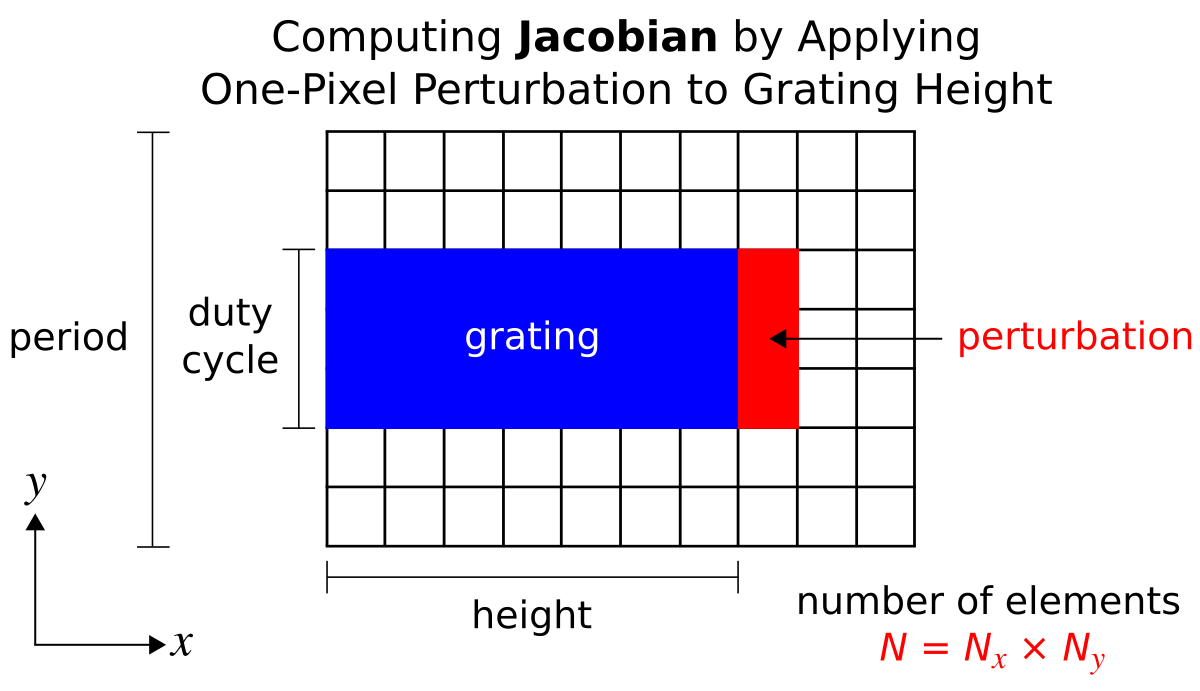
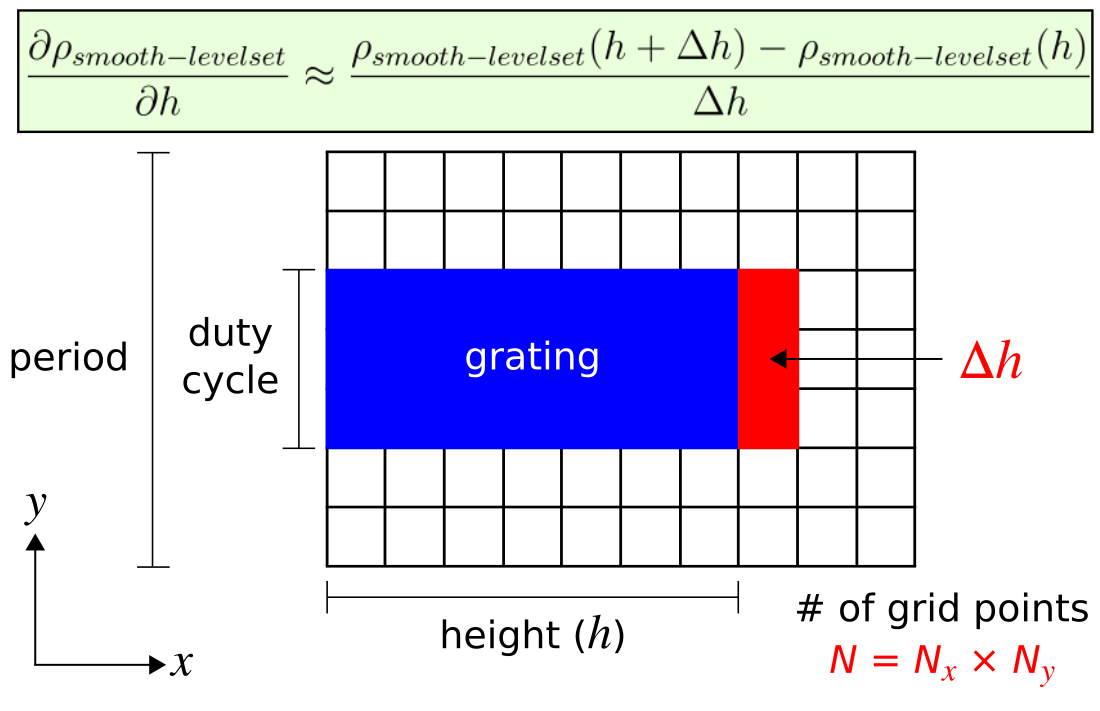
add figures showing simulation layout and plot of error in adjoint gradient vs resolution

diff --git a/python/examples/adjoint_optimization/binary_grating_levelset.py b/python/examples/adjoint_optimization/binary_grating_levelset.py
@@ -26,7 +26,7 @@ WAVELENGTH_UM = 0.53
 GRATING_PERIOD_UM = 1.28
 GRATING_HEIGHT_UM = 0.52
 GRATING_DUTY_CYCLE = 0.65
-GRATING_HEIGHT_PERTURBATION_UM = 2.0 / RESOLUTION_UM
+GRATING_HEIGHT_PERTURBATION_UM = 1.0 / RESOLUTION_UM
 DIFFRACTION_ORDER = 1
 SUBSTRATE_UM = 1.5
 PML_UM = 1.0

diff --git a/doc/docs/Python_Tutorials/Adjoint_Solver.md b/doc/docs/Python_Tutorials/Adjoint_Solver.md
@@ -804,16 +804,41 @@ if __name__ == "__main__":
         )
 ```
 
-Binary Grating as a Level Set
------------------------------
+Adjoint Gradient of a Level Set
+-------------------------------
 
-This is a demonstration of computing the gradient of a level set using the adjoint solver.
+It is also possible to compute the gradient of a [level set](https://en.wikipedia.org/wiki/Level_set) (i.e., a discontinuous function) using the density-based adjoint solver. This is useful for applications involving [shape optimization](https://en.wikipedia.org/wiki/Shape_optimization) (or geometry parameterization).
+
+As a demonstration, we will compute the gradient of the diffraction efficiency of the first transmitted order of a 1D binary grating with respect to the grating height. The accuracy of the adjoint gradient is validated using a brute-force finite difference via the directional derivative.
+
+The calculation of the diffraction efficiency involves [mode decomposition](Python_User_Interface/#mode-decomposition) of planewaves which is described in [Tutorial/Transmissive Diffraction Spectrum for Planewave at Normal Incidence](Mode_Decomposition.md#transmissive-diffraction-spectrum-for-planewave-at-normal-incidence). An important aspect of specifying the `meep.adjoint.EigenmodeCoefficient` object for diffraction orders (planewaves) in 2D is to directly specify the wavevector using the `kpoint_func` parameter. Additionally, it is necessary to specify the `eig_vol` parameter to have a *length of one pixel in the periodic direction* in order for MPB to correctly interpret this wavevector in the Cartesian basis rather than the reciprocal-lattice basis defined by the grating period.
+
+```
+RESOLUTION_UM = 50
+dir-deriv:, -0.02535355 (finite difference), -0.01469133 (adjoint), 0.420542 (error)
+
+RESOLUTION_UM = 100
+dir-deriv:, -0.00604817 (finite difference), -0.00473221 (adjoint), 0.217580 (error)
+
+RESOLUTION_UM = 200
+dir-deriv:, -0.00284452 (finite difference), -0.00252470 (adjoint), 0.112432 (error)
+
+RESOLUTION_UM = 400
+dir-deriv:, -0.00140221 (finite difference), -0.00132065 (adjoint), 0.058165 (error)
+
+RESOLUTION_UM = 800
+dir-deriv:, -0.00069606 (finite difference), -0.00067547 (adjoint), 0.029583 (error)
+```
 
 The simulation script is in [python/examples/adjoint_optimization/binary_grating_levelset.py](https://github.com/NanoComp/meep/tree/master/python/examples/adjoint_optimization/binary_grating_levelset.py).
 
 ![](../images/levelset_gradient_backpropagation.png#center)
 
 ![](../images/levelset_jacobian_matrix.png#center)
+
+![](../images/levelset_adjoint_gradient.png#center)
+
+![](../images/levelset_adjoint_gradient_error_vs_resolution.png#center)
 
 Compact Notebook Tutorials of Basic Features
 --------------------------------------------
